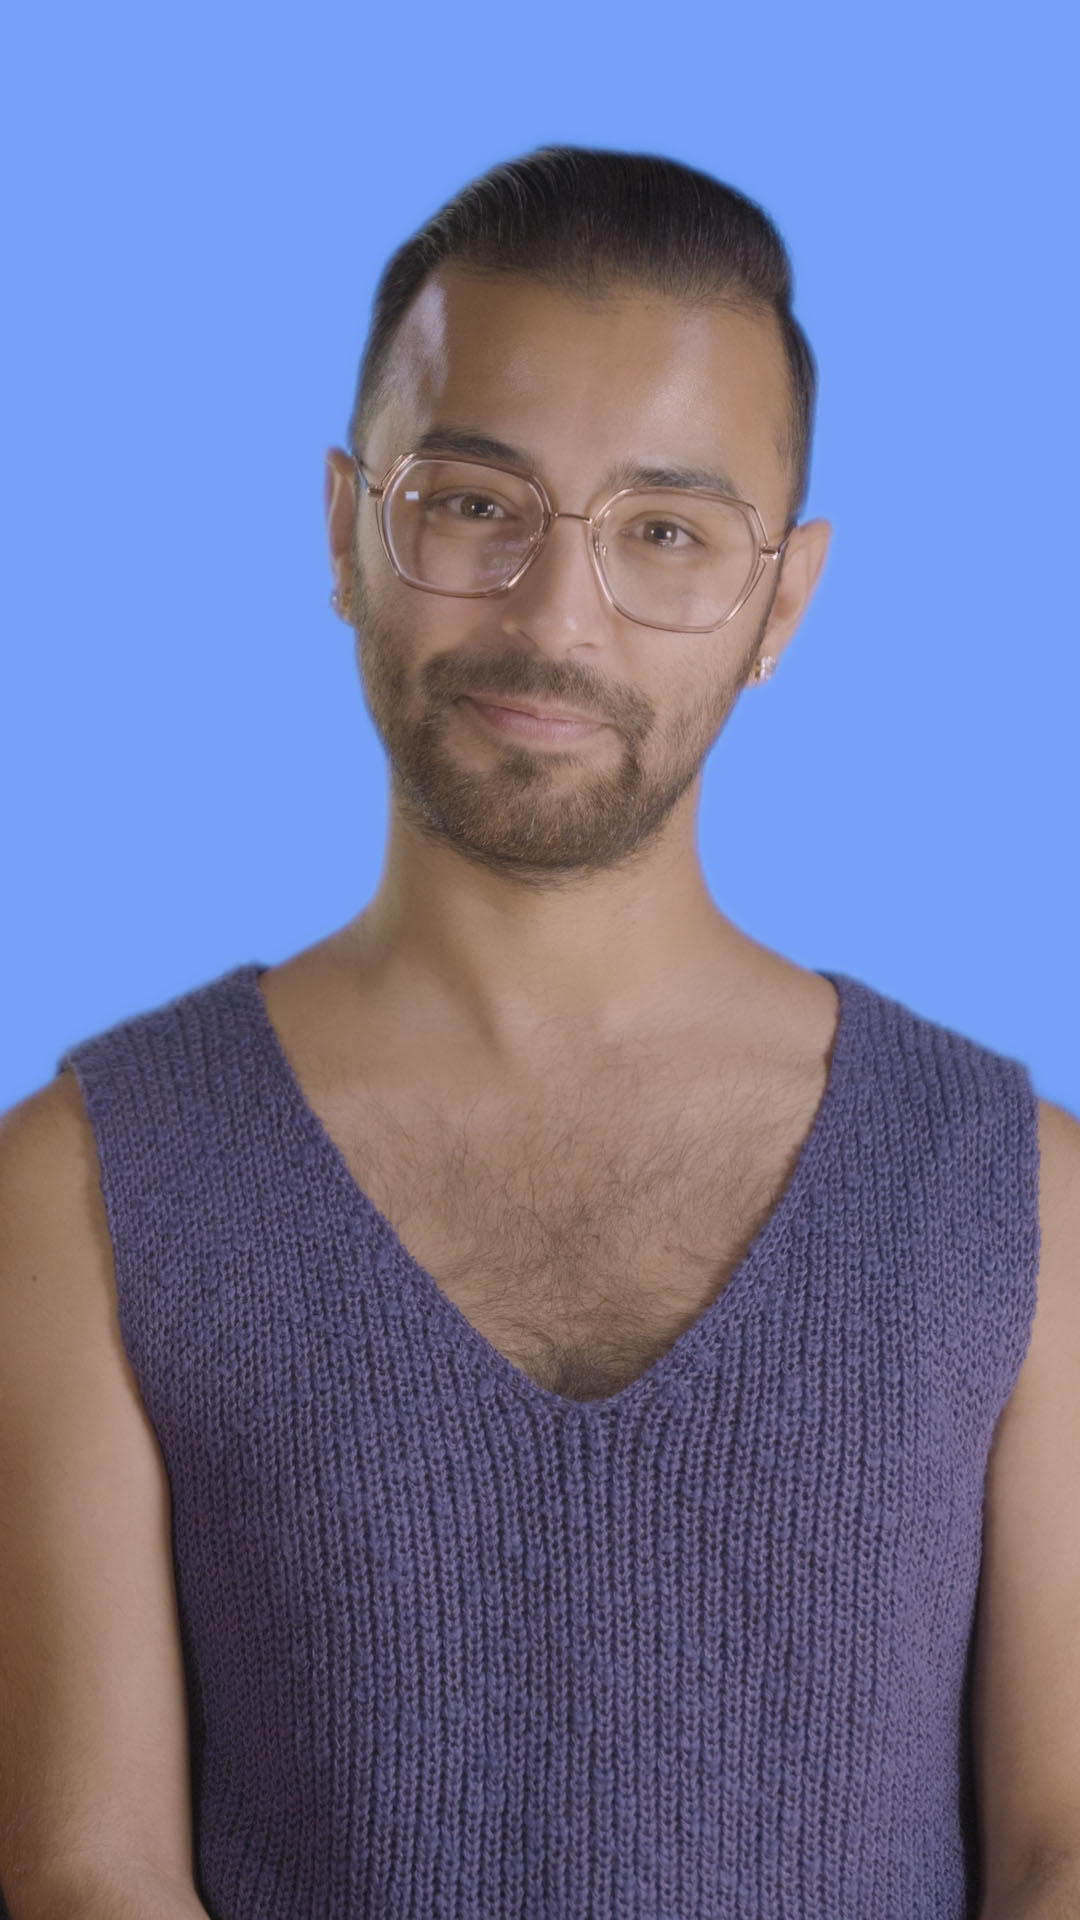
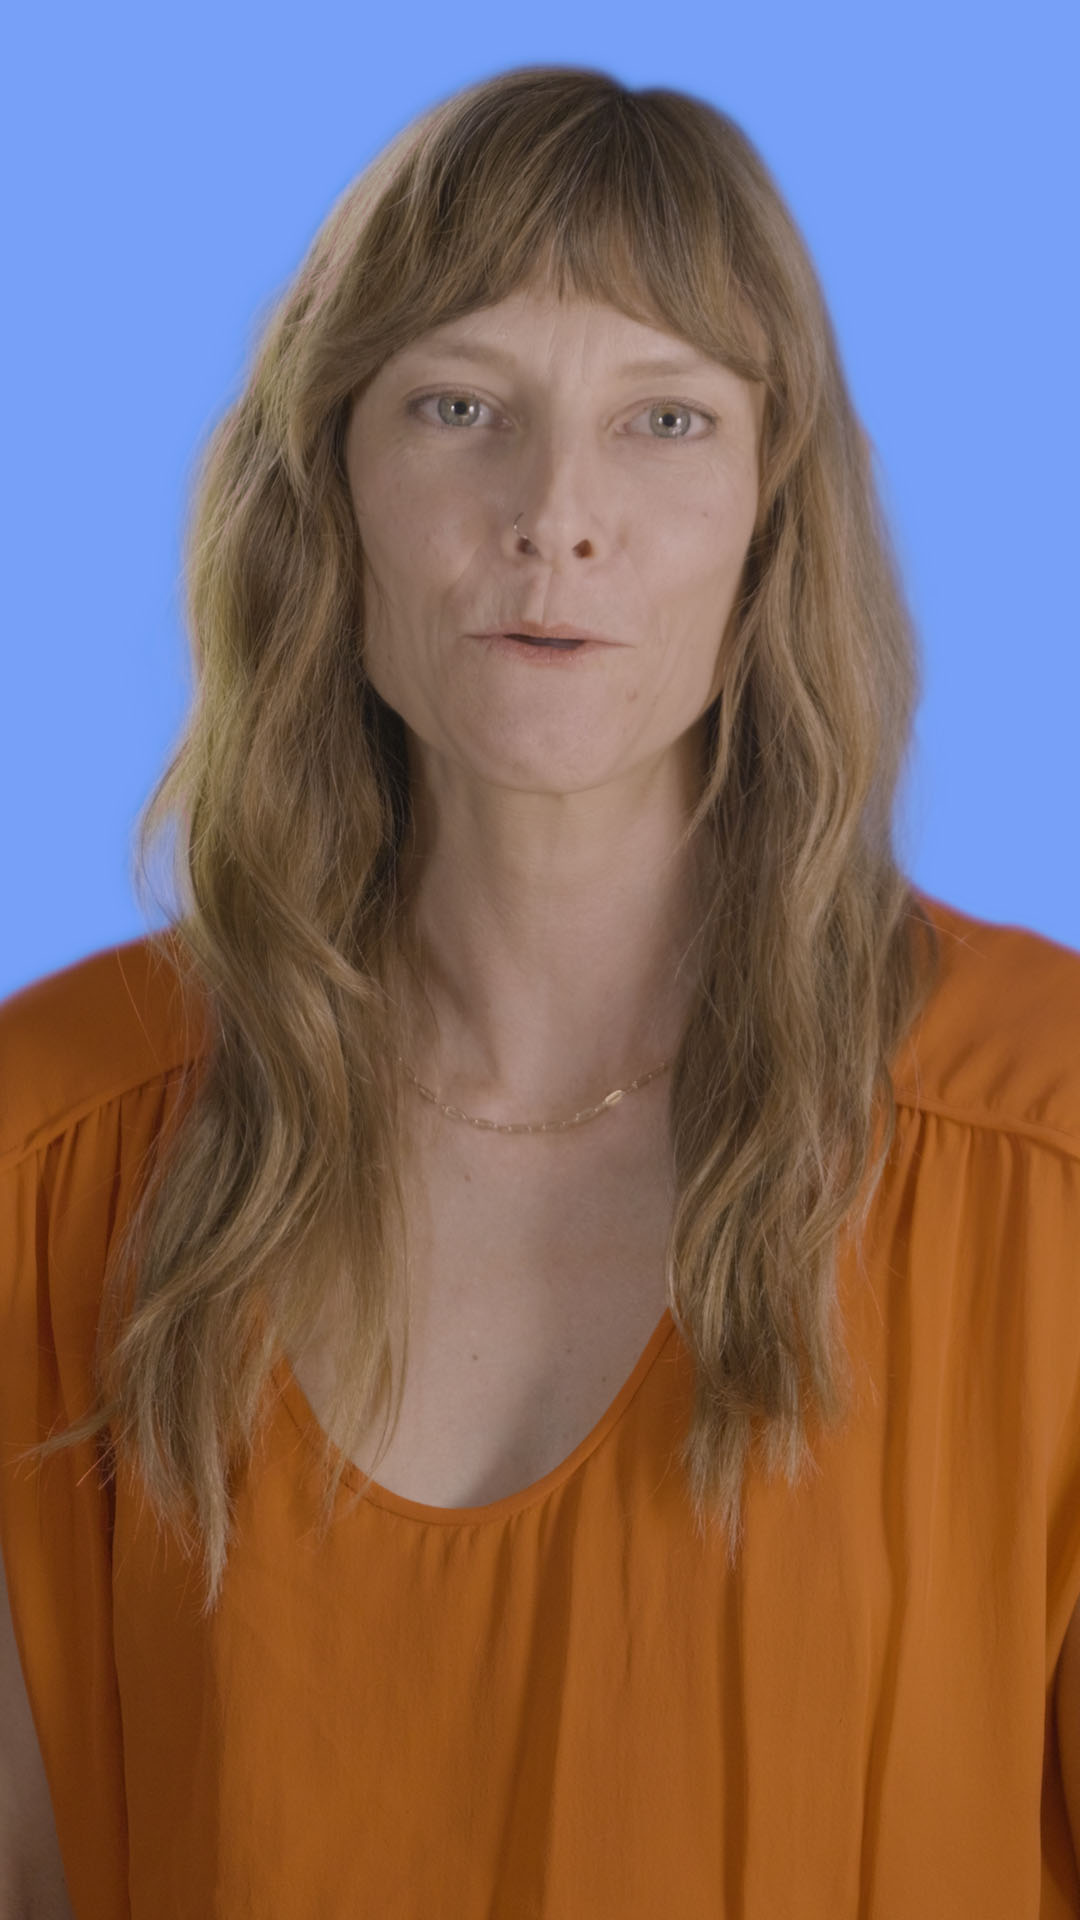
Restore the questionnaire label size; wipe between speakers
The "Pathways Questionnaire" label went back into landscape on 08-10 at a
flat .62rem, which rendered at 12.4px — less than half the size it had
always been. Restores the original fluid size, 3.14% of the card's inner
width, along with its weight of 600 and .18em tracking. Measured at 22.6px
on a 1024x700 window, 26.4px at 1440x900 and 29.6px at 1920x1080, with no
wrapping or overflow. Header height and video width are unchanged, so the
284px reserve still holds.

The speaker name/title change is now a wipe rather than a cut. One edge
travels left to right across the whole block in 190ms: the incoming
speaker is uncovered at exactly the rate the outgoing one is clipped away,
so the type is solid on both sides of the edge and never half-transparent.
Under prefers-reduced-motion it stays a straight cut, matching the hero
photos and the quote carousel. A node's first appearance doesn't wipe, and
a change arriving mid-wipe finishes the one in flight rather than stacking.

New poster still for welcome, matching the re-framed clip.

diff --git a/index.html b/index.html
@@ -157,6 +157,16 @@
   .qv-spk{display:grid;width:100%;background:var(--navy);padding:.55rem .8rem .6rem;text-align:center;font-family:var(--font-body)}
   .qv-spk-slot{grid-area:1/1;visibility:hidden}
   .qv-spk-slot.is-on{visibility:visible}
+  /* Speaker change: a single wipe travelling left to right. The outgoing block is clipped away from
+     the left at exactly the rate the incoming one is uncovered, so there is one moving edge and the
+     type is solid on both sides of it — never half-transparent, which is what ruled a crossfade out.
+     Both slots sit in the same grid cell, so this needs no extra layout.
+     It covers the WHOLE block, not just the name: the two presenters have a different number of
+     title lines, and wiping the name alone would leave the lines beneath it to pop. */
+  .qv-spk-slot.is-wipe-in{visibility:visible;animation:qvSpkIn 190ms cubic-bezier(.33,0,.15,1) both}
+  .qv-spk-slot.is-wipe-out{visibility:visible;animation:qvSpkOut 190ms cubic-bezier(.33,0,.15,1) both}
+  @keyframes qvSpkIn{from{clip-path:inset(0 100% 0 0)}to{clip-path:inset(0 0 0 0)}}
+  @keyframes qvSpkOut{from{clip-path:inset(0 0 0 0)}to{clip-path:inset(0 0 0 100%)}}
   .qv-spk-name{display:block;color:var(--white);font-weight:700;font-size:.9rem;letter-spacing:.07em;line-height:1.25;text-transform:uppercase}
   .qv-spk-rule{display:none}
   .qv-spk-role{display:block;color:var(--gold);font-weight:400;font-size:.7rem;line-height:1.35;margin-top:.18em}
@@ -340,7 +350,14 @@
        It is the card's header and the only thing naming it — on desktop the questionnaire is a card
        floating on a light ground, where a phone has it full-bleed. Cost is documented above.
        Hidden globally by the .qv-subtitle rule near the top; this is the one place it shows. */
-    .qv-subtitle{display:block;font-family:var(--font-body);color:var(--gold);font-weight:700;letter-spacing:.14em;text-transform:uppercase;font-size:.62rem;text-align:center;padding:1.15rem 1rem .1rem;width:100%}
+    /* Size is 3.14% of the card's INNER WIDTH (video + gap + panel), not a fixed rem — the original
+       formula, restored 2026-08-11 after the 08-10 rebuild set a flat .62rem and came out at 12.4px,
+       less than half the size this label had always been. It scales with the card, so it holds its
+       proportion from a 1024px window up to 1920. */
+    .qv-subtitle{display:block;align-self:stretch;width:100%;margin:0;padding:1.3rem 1.5rem .2rem;
+      font-family:var(--font-body);color:var(--gold);font-weight:600;text-transform:uppercase;
+      text-align:center;white-space:nowrap;line-height:1.1;letter-spacing:.18em;
+      font-size:calc((var(--vidH) * 9 / 16 + var(--colGap) + var(--panelW)) * .0314)}
     .qv-stage{display:flex;flex-direction:row;align-items:center;justify-content:center;gap:var(--colGap);width:auto;max-width:none;margin:0;padding:1.7rem 2rem 0}
     .qv-window{width:auto;height:var(--vidH);aspect-ratio:9/16;max-height:none;border-radius:12px}
     .qv-end{position:static;inset:auto;display:flex!important;width:var(--panelW);background:none;overflow:visible;padding:0;justify-content:center}
@@ -1080,17 +1097,44 @@ function qvSpeakerAt(segs,t){
   for(var i=1;i<segs.length;i++){if(t>=segs[i].at)k=segs[i].k;else break;}
   return k;
 }
+// The wipe is 190ms; anything slower draws attention to itself, and on welcome this happens four
+// times inside 55 seconds. Held here rather than read back off the stylesheet so the class cleanup
+// can never outlive the animation.
+var QV_SPK_WIPE=190;
 function qvSpeakerSync(v){
   var group=v&&v.closest('.qv-group');if(!group)return;
   var boxes=group.querySelectorAll('.qv-spk');if(!boxes.length)return;
   var segs=qvSpeakerList(NODES[group.getAttribute('data-node')]);if(!segs.length)return;
   var k=qvSpeakerAt(segs,v.currentTime||0);
+  // Someone who asked their system not to animate gets the change as a straight cut. Same rule the
+  // hero photos and the quote carousel already follow.
+  var still=window.matchMedia&&window.matchMedia('(prefers-reduced-motion: reduce)').matches;
   boxes.forEach(function(box){                             // the phone band and the desktop column
-    if(box.getAttribute('data-showing')===k)return;        // nothing changed — don't touch the DOM
+    var was=box.getAttribute('data-showing');
+    if(was===k)return;                                     // nothing changed — don't touch the DOM
     box.setAttribute('data-showing',k);
-    box.querySelectorAll('.qv-spk-slot').forEach(function(el){
-      el.classList.toggle('is-on',el.getAttribute('data-spk')===k);
+    var slots=box.querySelectorAll('.qv-spk-slot');
+    // A wipe already running is finished on the spot before the next one starts — a scrub through
+    // the timeline can ask for two changes inside the animation.
+    if(box.qvWipe){clearTimeout(box.qvWipe);box.qvWipe=null;
+      slots.forEach(function(el){el.classList.remove('is-wipe-in','is-wipe-out');});}
+    var first=!was;                                        // opening frame: no wipe, just show
+    if(first||still){
+      slots.forEach(function(el){el.classList.toggle('is-on',el.getAttribute('data-spk')===k);});
+      return;
+    }
+    slots.forEach(function(el){
+      var mine=el.getAttribute('data-spk')===k;
+      if(mine){el.classList.add('is-on','is-wipe-in');}
+      else if(el.classList.contains('is-on')){el.classList.add('is-wipe-out');}
     });
+    box.qvWipe=setTimeout(function(){
+      box.qvWipe=null;
+      slots.forEach(function(el){
+        el.classList.remove('is-wipe-in','is-wipe-out');
+        el.classList.toggle('is-on',el.getAttribute('data-spk')===k);
+      });
+    },QV_SPK_WIPE+10);
   });
 }
 // Measures the band once the fonts and text have settled and publishes it as --spkH, so the
